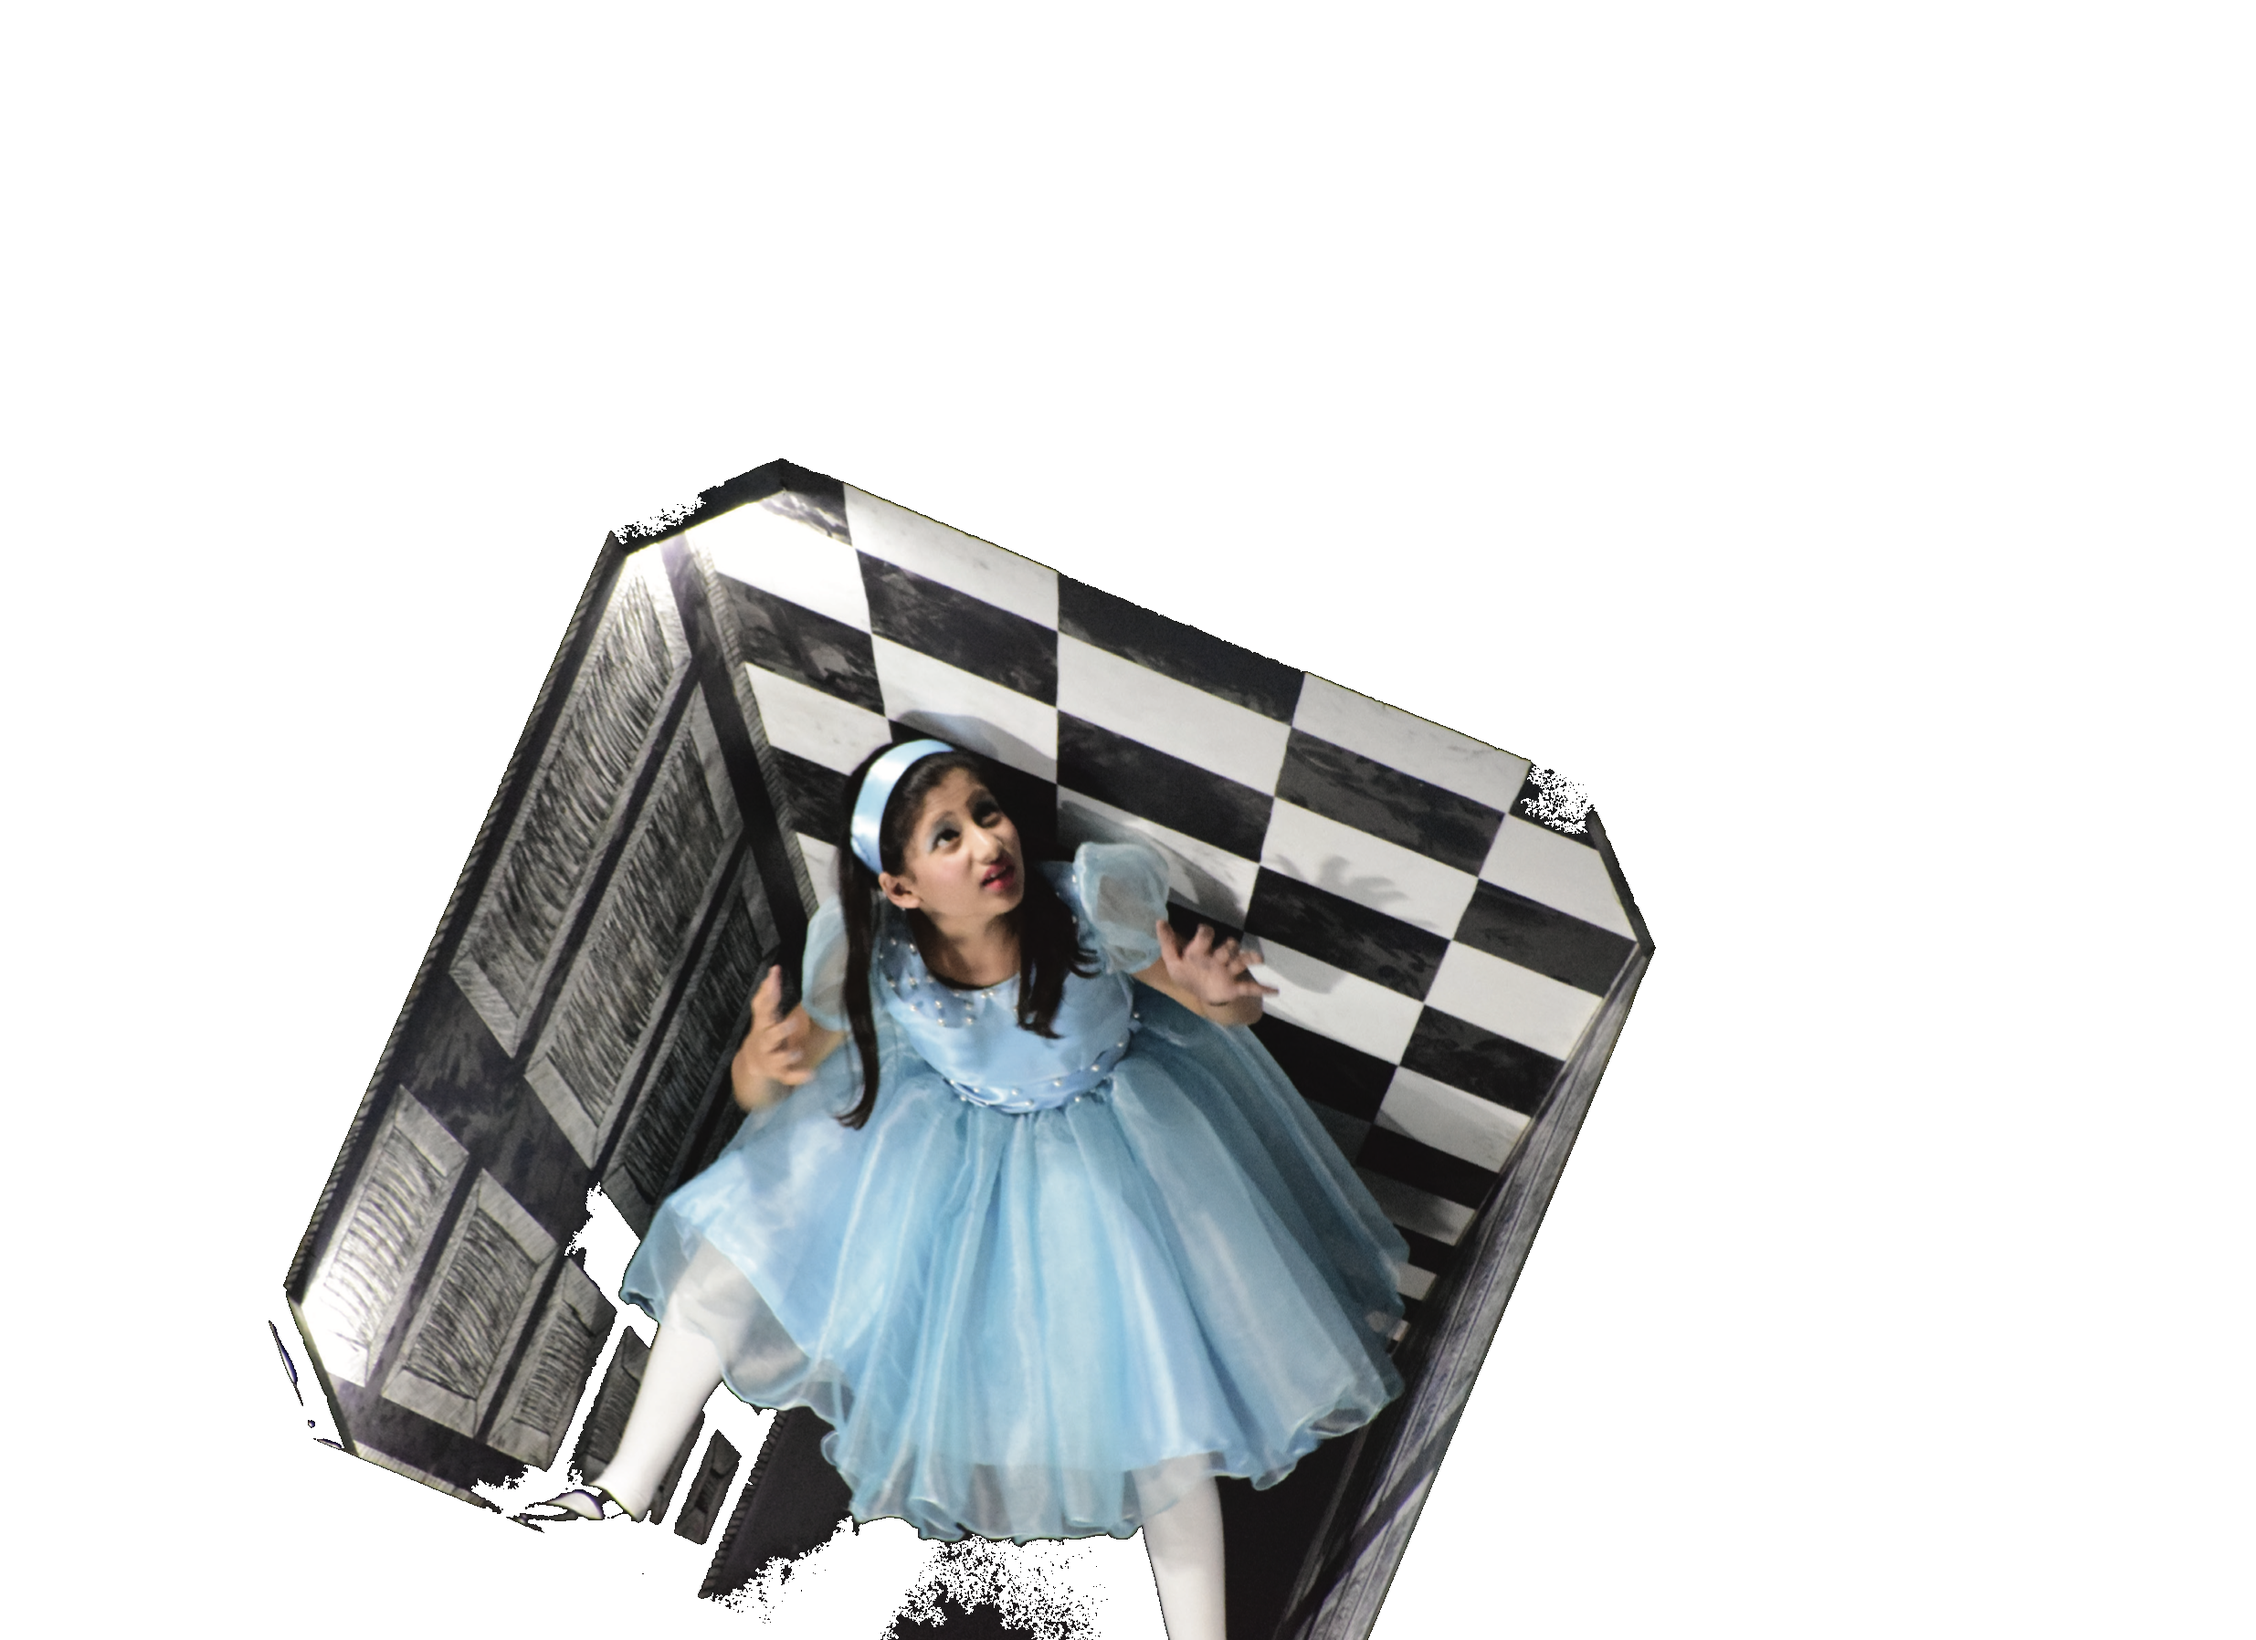
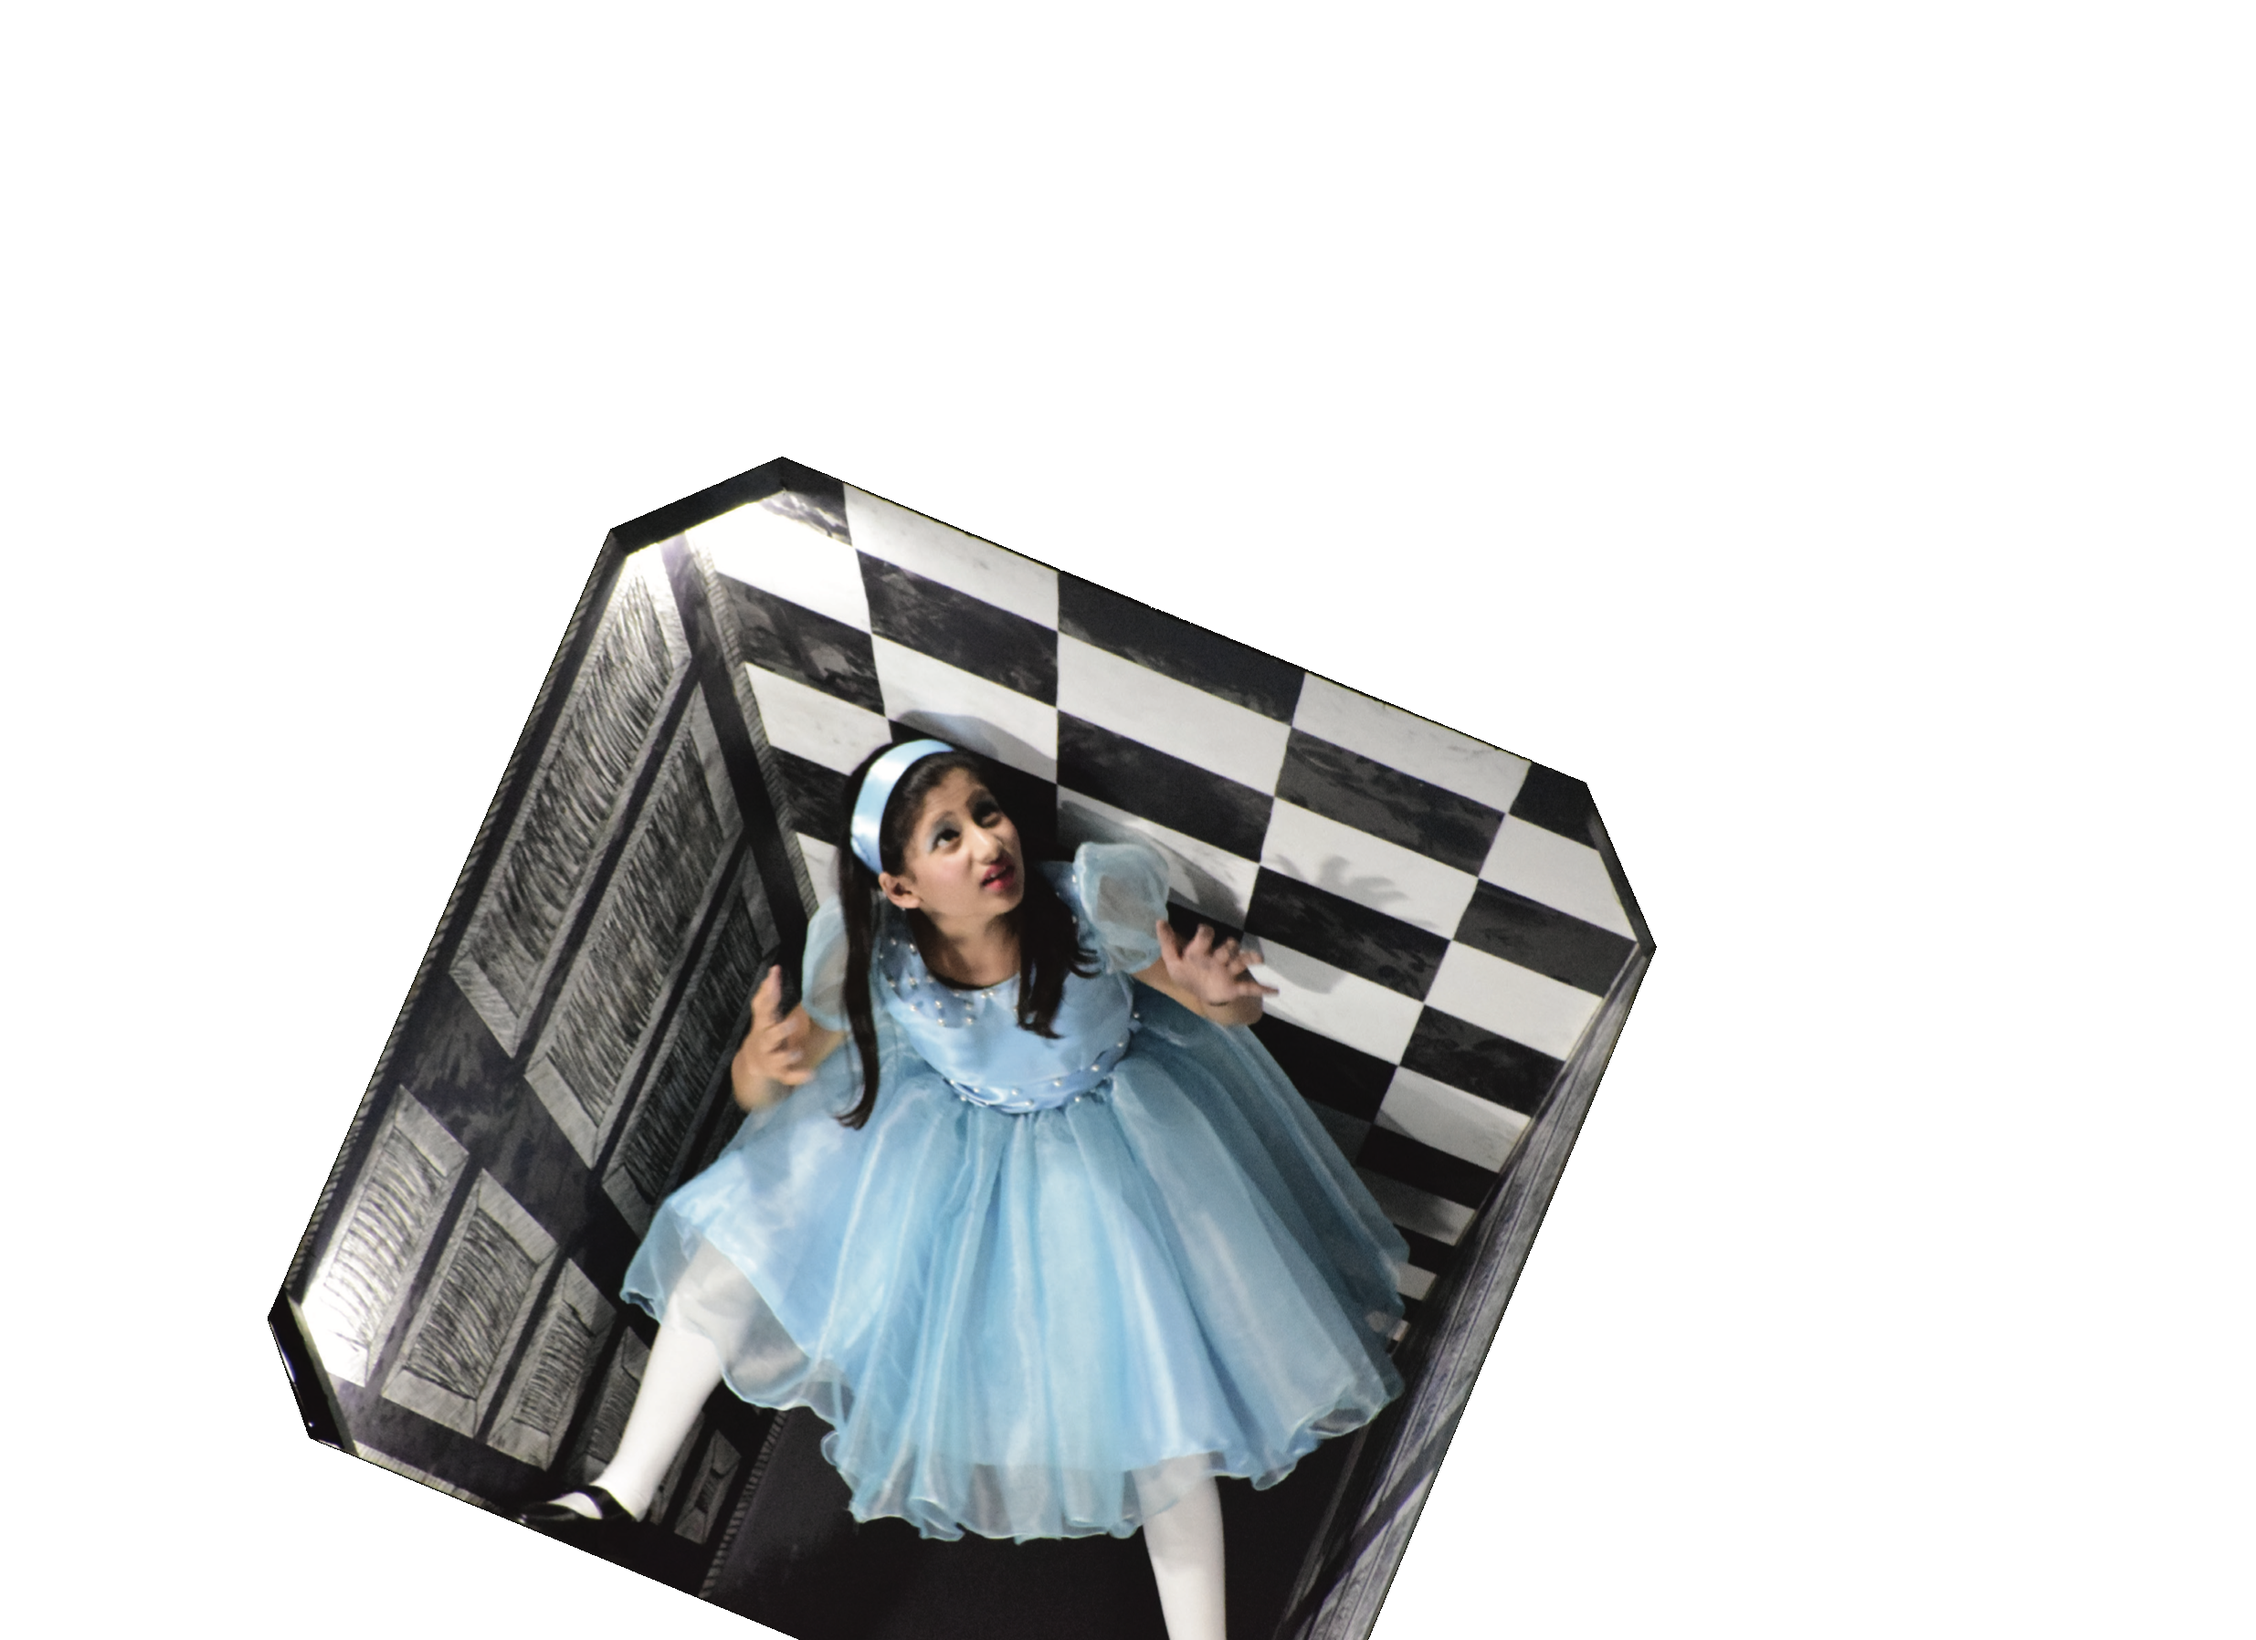
feat: add background removal assets and tighten dark pixel threshold in removal script

diff --git a/remove_bg.py b/remove_bg.py
@@ -42,8 +42,8 @@ def remove_black_floodfill(image_path, output_path):
         x, y = queue.pop(0)
         r, g, b, a = pixels[x, y]
         
-        # If it's a dark pixel, make it transparent and add neighbors
-        if r < 30 and g < 30 and b < 30:
+        # If it's a very dark pixel, make it transparent and add neighbors
+        if r < 15 and g < 15 and b < 15:
             pixels[x, y] = (0, 0, 0, 0)
             
             for nx, ny in [(x-1, y), (x+1, y), (x, y-1), (x, y+1)]:
